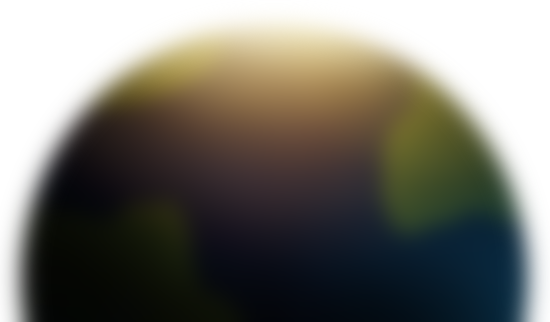
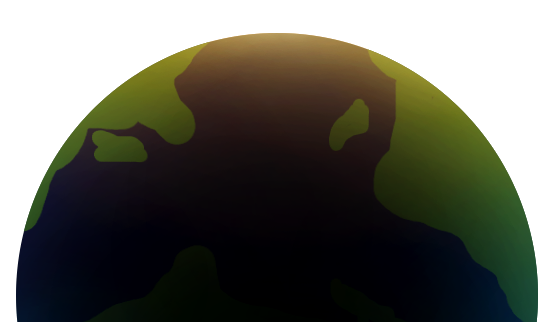
Introduced working blur shader

diff --git a/galacticum/src/de/myreality/galacticum/screens/MenuScreen.java b/galacticum/src/de/myreality/galacticum/screens/MenuScreen.java
@@ -22,11 +22,17 @@ import aurelienribon.tweenengine.TweenManager;
 
 import com.badlogic.gdx.Gdx;
 import com.badlogic.gdx.Screen;
+import com.badlogic.gdx.files.FileHandle;
 import com.badlogic.gdx.graphics.Color;
 import com.badlogic.gdx.graphics.GL11;
 import com.badlogic.gdx.graphics.OrthographicCamera;
+import com.badlogic.gdx.graphics.Pixmap;
+import com.badlogic.gdx.graphics.g2d.Batch;
 import com.badlogic.gdx.graphics.g2d.Sprite;
 import com.badlogic.gdx.graphics.g2d.SpriteBatch;
+import com.badlogic.gdx.graphics.g2d.TextureRegion;
+import com.badlogic.gdx.graphics.glutils.FrameBuffer;
+import com.badlogic.gdx.graphics.glutils.ShaderProgram;
 import com.badlogic.gdx.scenes.scene2d.Stage;
 import com.badlogic.gdx.scenes.scene2d.ui.Label;
 import com.badlogic.gdx.scenes.scene2d.ui.Label.LabelStyle;
@@ -74,6 +80,14 @@ public abstract class MenuScreen implements Screen {
 	private Label lblVersion, lblCopyright;
 	
 	private int width, height;
+	
+	private ShaderProgram blurShader;
+	
+	private float time;
+	
+    private FrameBuffer targetA;
+    
+    private FrameBuffer targetB;
 
 	// ===========================================================
 	// Constructors
@@ -145,15 +159,49 @@ public abstract class MenuScreen implements Screen {
 		camera.update();
 
 		batch.setProjectionMatrix(camera.combined);
-
+		
+		time += delta;
+		
+		drawTargetA(batch, delta);
+		drawTargetB(batch, delta);
+		TextureRegion bg = new TextureRegion(targetB.getColorBufferTexture());
+		
+		batch.setShader(blurShader);
+		batch.begin();
+			blurShader.setUniformi("horizontal", 0);
+			blurShader.setUniformf("u_time", time);
+			batch.draw(bg, 0, 0);
+		batch.end();
+		batch.flush();
+		stage.draw();
+	}
+	
+	private void drawTargetA(Batch batch, float delta) {
+		
+		targetA.begin();
+		
 		batch.begin();
 			background.draw(batch);
 			earth.draw(batch);
-			onDraw(batch, delta);
 		batch.end();
+		targetA.end();		
+		batch.flush();
+	}
+	
+	private void drawTargetB(Batch batch, float delta) {
 
-		
-		stage.draw();
+		batch.setShader(blurShader);
+		TextureRegion targetABuffer = new TextureRegion(targetA.getColorBufferTexture());
+
+		targetB.begin();
+		batch.begin();
+			blurShader.setUniformi("horizontal", 1);
+			blurShader.setUniformf("u_time", time);
+			batch.draw(targetABuffer, 0f, 0f);
+		batch.end();
+		targetB.end();
+		batch.flush();
+		batch.setShader(null);
 	}
 
 	/*
@@ -194,6 +242,11 @@ public abstract class MenuScreen implements Screen {
 			onResize();
 			onResizeUI(width, height);
 		}
+		
+
+		
+		targetA = new FrameBuffer(Pixmap.Format.RGBA8888, width, height, false);
+	    targetB = new FrameBuffer(Pixmap.Format.RGBA8888, width, height, false);
 	}
 
 	/*
@@ -210,6 +263,13 @@ public abstract class MenuScreen implements Screen {
 		background.flip(false, true);
 		earth.flip(false, true);
 		camera = new OrthographicCamera();
+		
+		FileHandle blurVertex = Gdx.files.internal("shaders/blur.vert");
+		FileHandle blurFragment = Gdx.files.internal("shaders/blur.frag");
+		
+		blurShader = new ShaderProgram(blurVertex, blurFragment);
+		
+		System.out.println(blurShader.getLog());
 	}
 
 	/*
